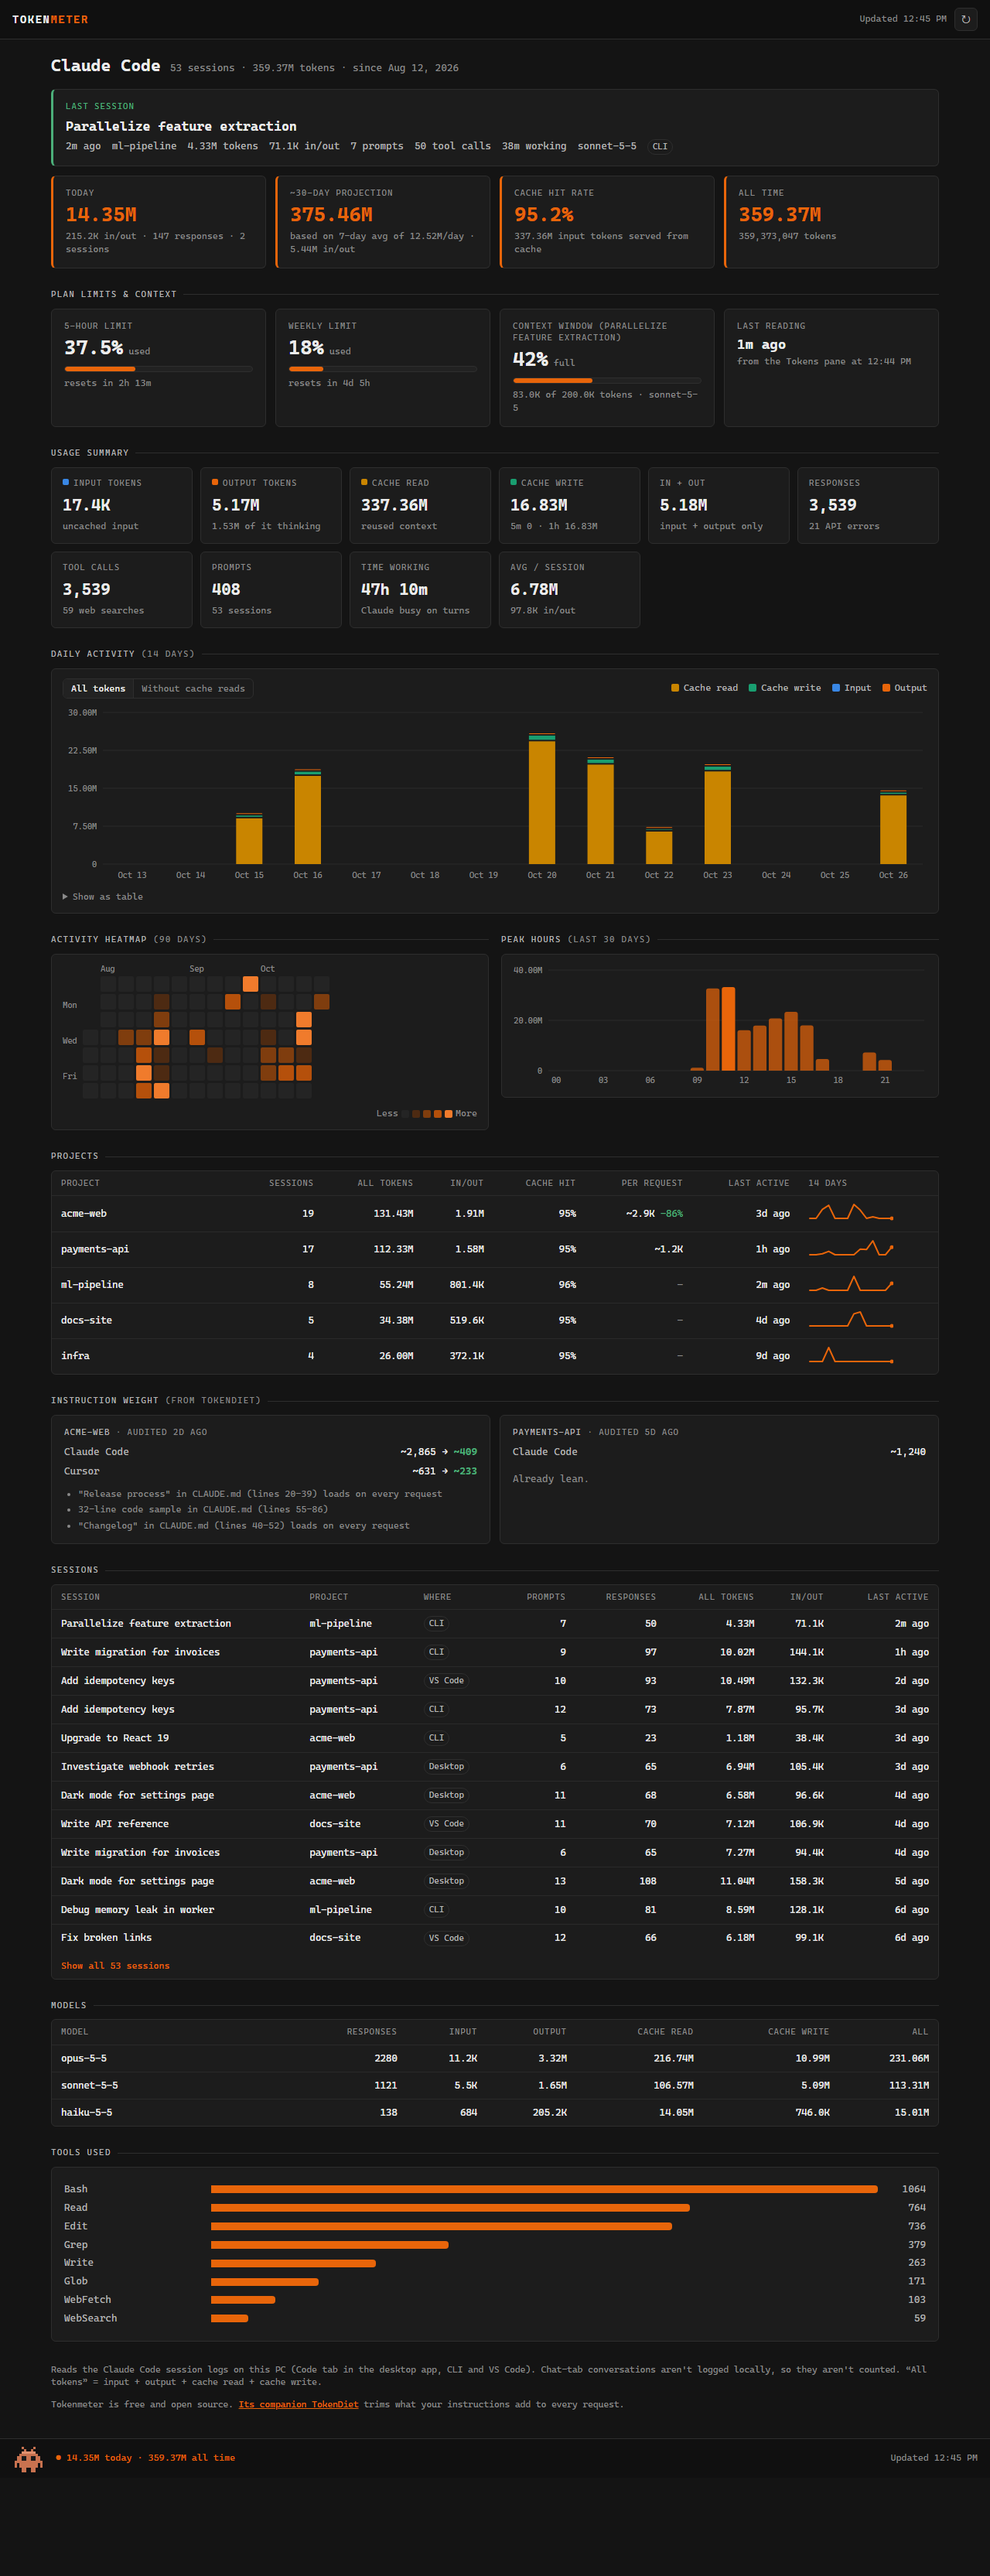
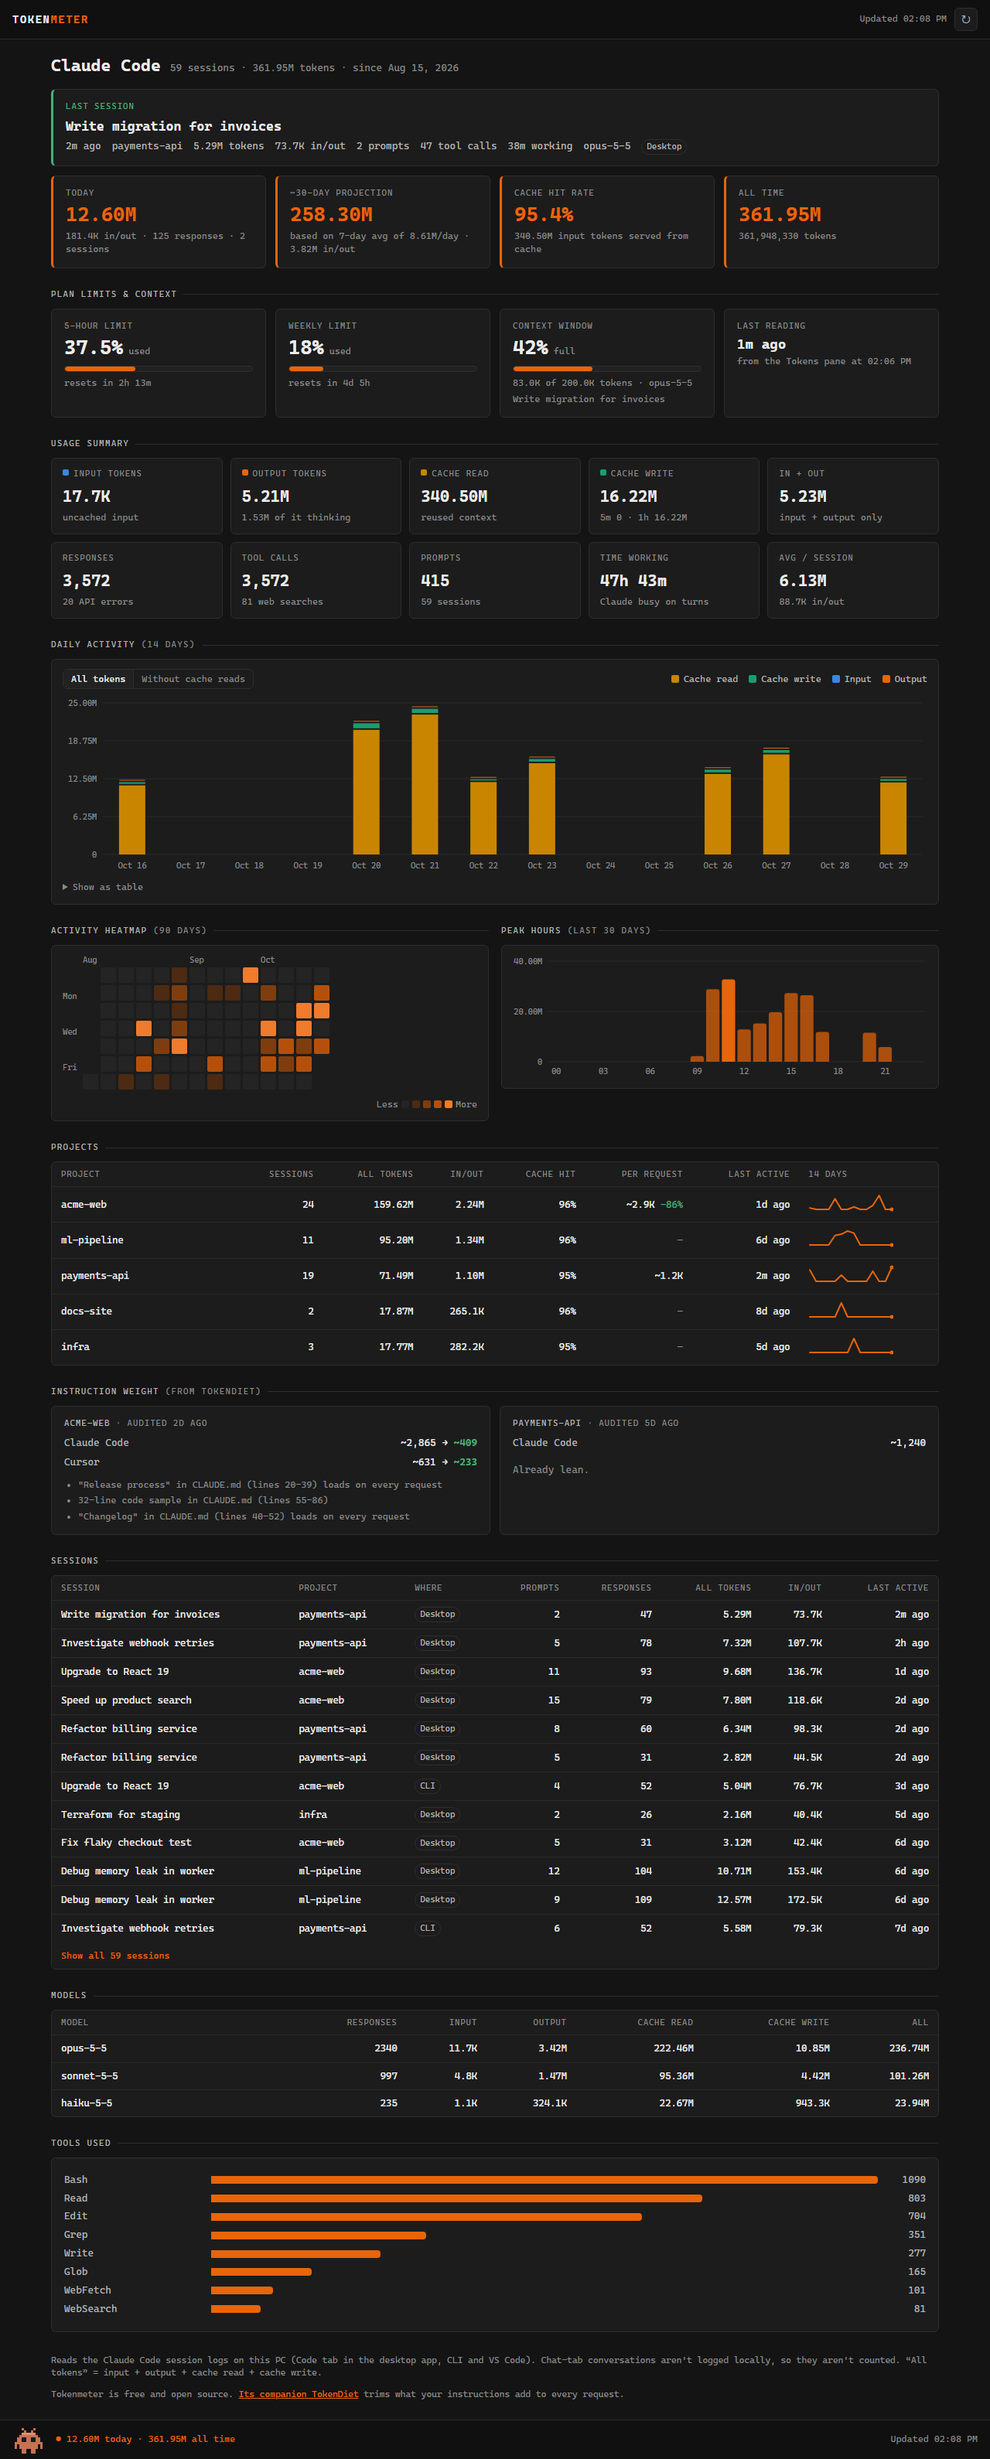
Dashboard layout polish (0.2.1)
- Usage summary in two even rows of five
- Context window card: session title on its own line
- Refreshed screenshots

diff --git a/dashboard/public/app.js b/dashboard/public/app.js
@@ -166,10 +166,11 @@
       const p = c.percent ?? (c.tokens ? Math.round((c.tokens / c.window) * 100) : 0);
       cards.push(`
       <div class="card">
-        <div class="label">Context window <span class="muted">(${esc(live.title || 'session')})</span></div>
+        <div class="label">Context window</div>
         <div class="big">${p}%<span class="muted" style="font-size:12px;font-weight:400"> full</span></div>
         <div class="meter"><div style="width:${Math.min(100, p)}%"></div></div>
         <div class="sub">${fmt(c.tokens || 0)} of ${fmt(c.window)} tokens · ${esc(shortModel(live.model))}</div>
+        ${live.title ? `<div class="sub" title="${esc(live.title)}">${esc(live.title)}</div>` : ''}
       </div>`);
     }
     if (!cards.length) cards.push('<div class="card live-empty">No plan-limit reading yet. It appears after the next reply in a Code session.</div>');

diff --git a/dashboard/public/styles.css b/dashboard/public/styles.css
@@ -113,7 +113,8 @@ h1 { font-size: 22px; margin: 0; }
 .last-session .meta { color: var(--ink-2); display: flex; flex-wrap: wrap; gap: 4px 14px; }
 
 .hero-grid { display: grid; grid-template-columns: repeat(auto-fit, minmax(210px, 1fr)); gap: 12px; margin-top: 12px; }
-.stat-grid { display: grid; grid-template-columns: repeat(auto-fit, minmax(160px, 1fr)); gap: 10px; }
+.stat-grid { display: grid; grid-template-columns: repeat(5, minmax(0, 1fr)); gap: 10px; }
+@media (max-width: 900px) { .stat-grid { grid-template-columns: repeat(auto-fit, minmax(160px, 1fr)); } }
 .stat-grid .card { padding: 12px 14px; }
 .stat-grid .val { font-size: 21px; font-weight: 700; }
 .stat-grid .swatch { display: inline-block; width: 8px; height: 8px; border-radius: 2px; margin-right: 6px; vertical-align: 1px; }

diff --git a/CHANGELOG.md b/CHANGELOG.md
@@ -4,6 +4,15 @@ All notable changes to this project are documented here. The format follows
 [Keep a Changelog](https://keepachangelog.com/en/1.1.0/), and the project uses
 [Semantic Versioning](https://semver.org/).
 
+## [0.2.1] - 2026-10-29
+
+### Fixed
+
+- Dashboard: the usage summary lays out in two even rows of five, and the
+  context window card shows the session title on its own line instead of in
+  a long all-caps label.
+- Refreshed screenshots.
+
 ## [0.2.0] - 2026-10-26
 
 ### Added
@@ -38,5 +47,6 @@ First public release.
 - Demo mode (`npm run demo`) with generated data.
 - Support for `CLAUDE_CONFIG_DIR` and a configurable port (`TOKENMETER_PORT`).
 
+[0.2.1]: https://github.com/bar-madar/claude-tokenmeter/releases/tag/v0.2.1
 [0.2.0]: https://github.com/bar-madar/claude-tokenmeter/releases/tag/v0.2.0
 [0.1.0]: https://github.com/bar-madar/claude-tokenmeter/releases/tag/v0.1.0
